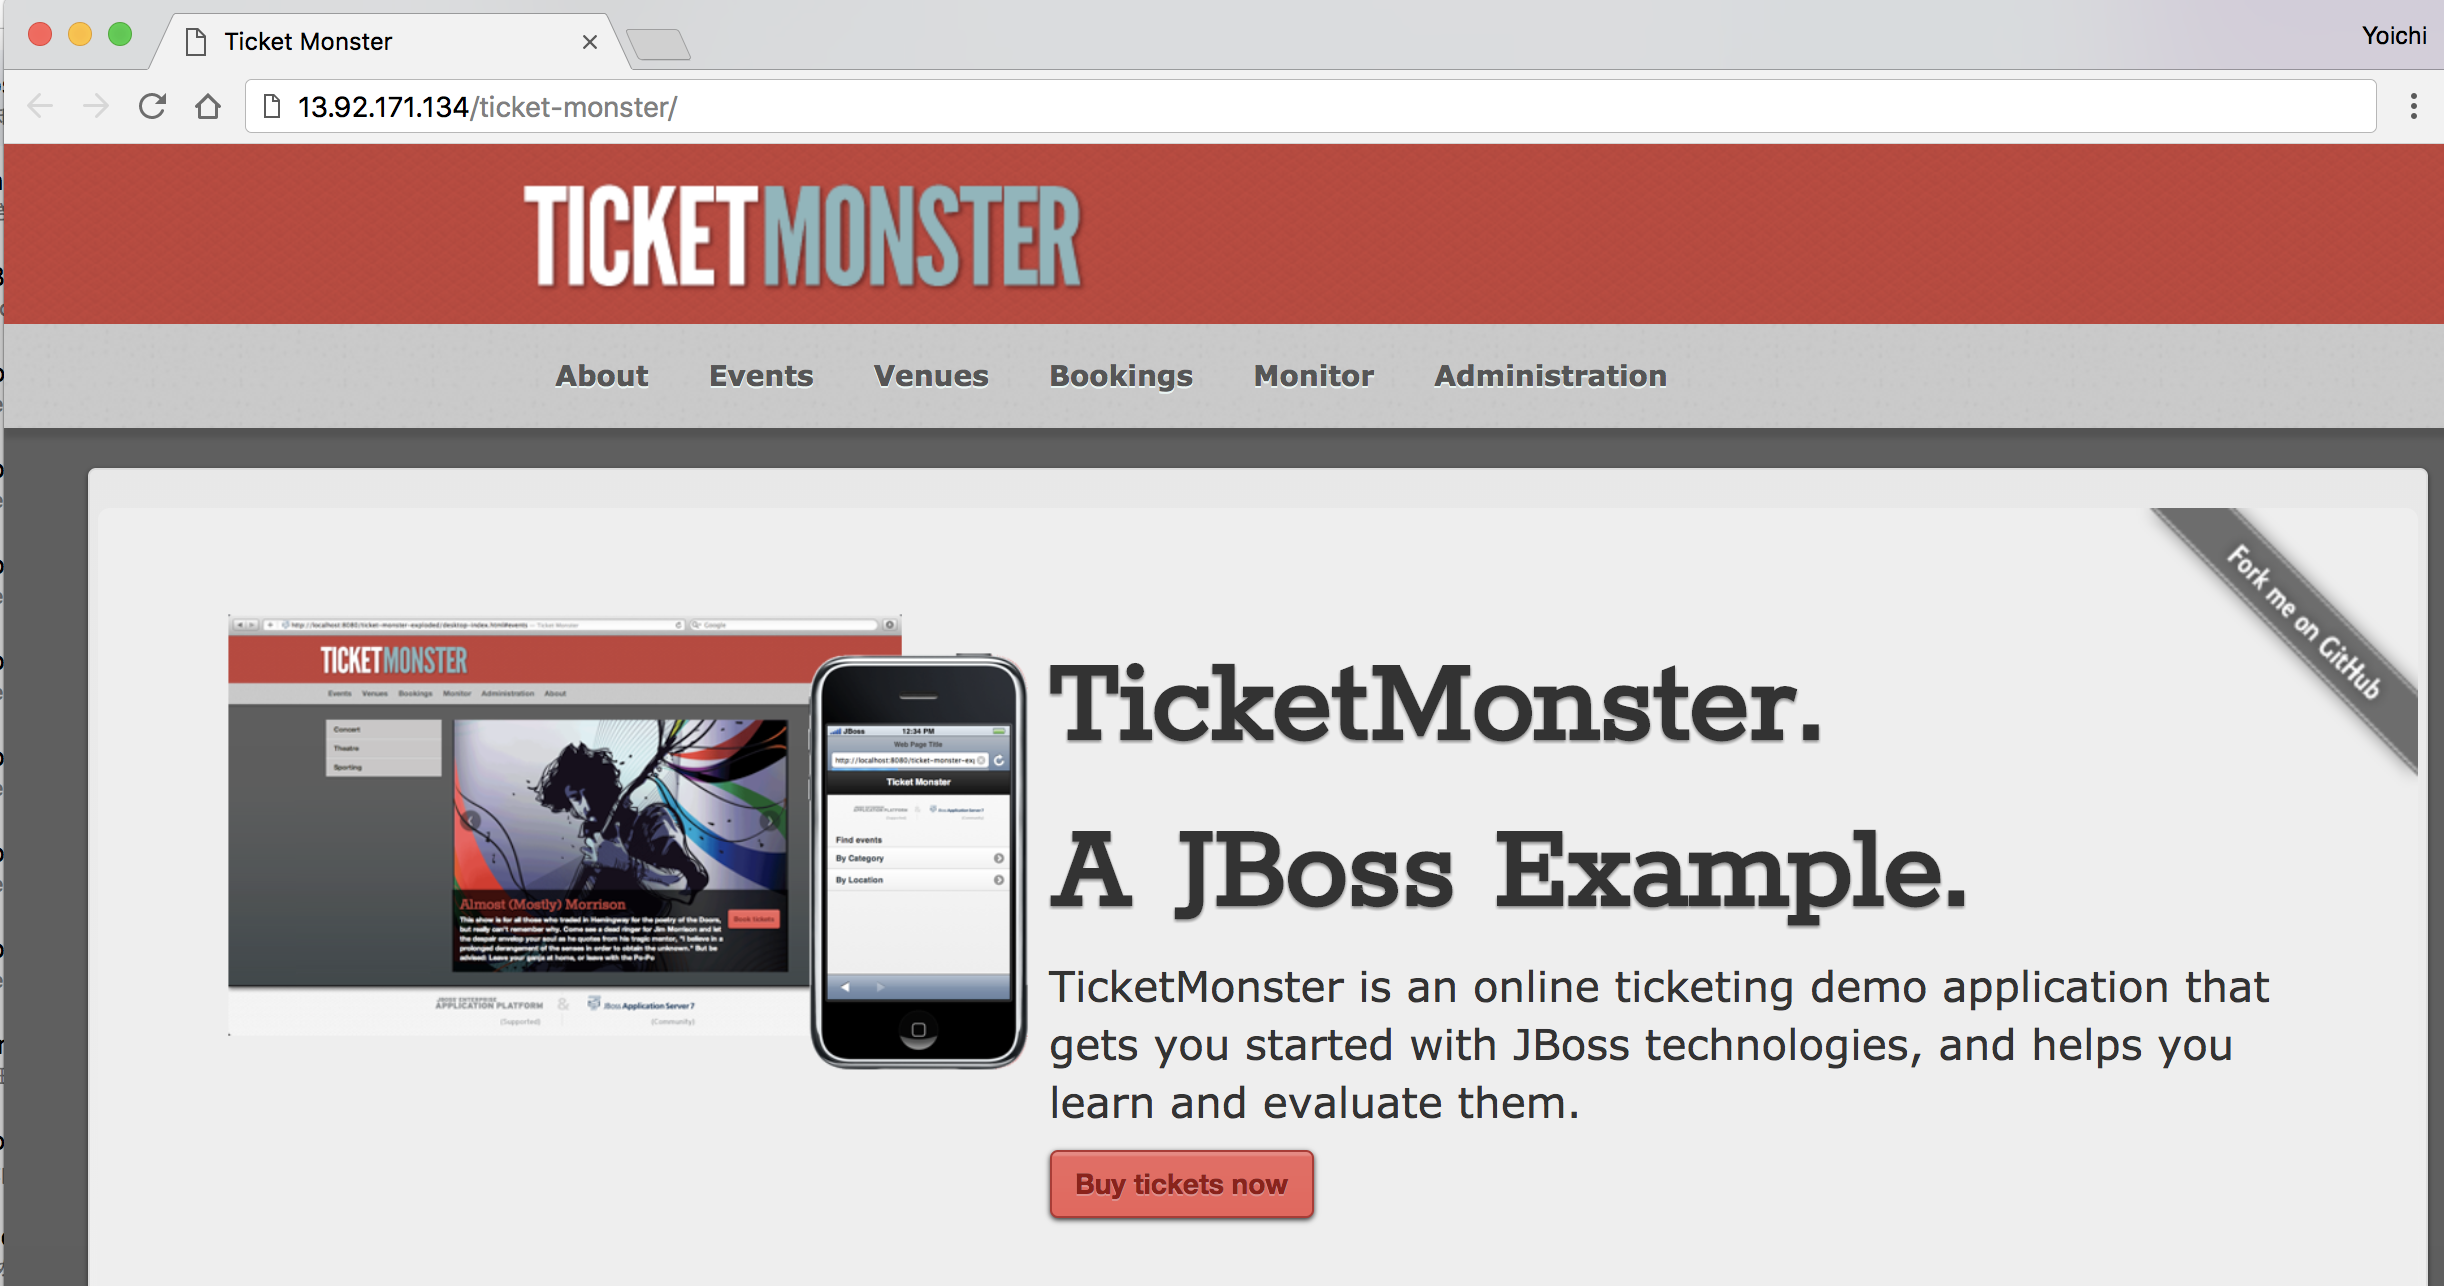
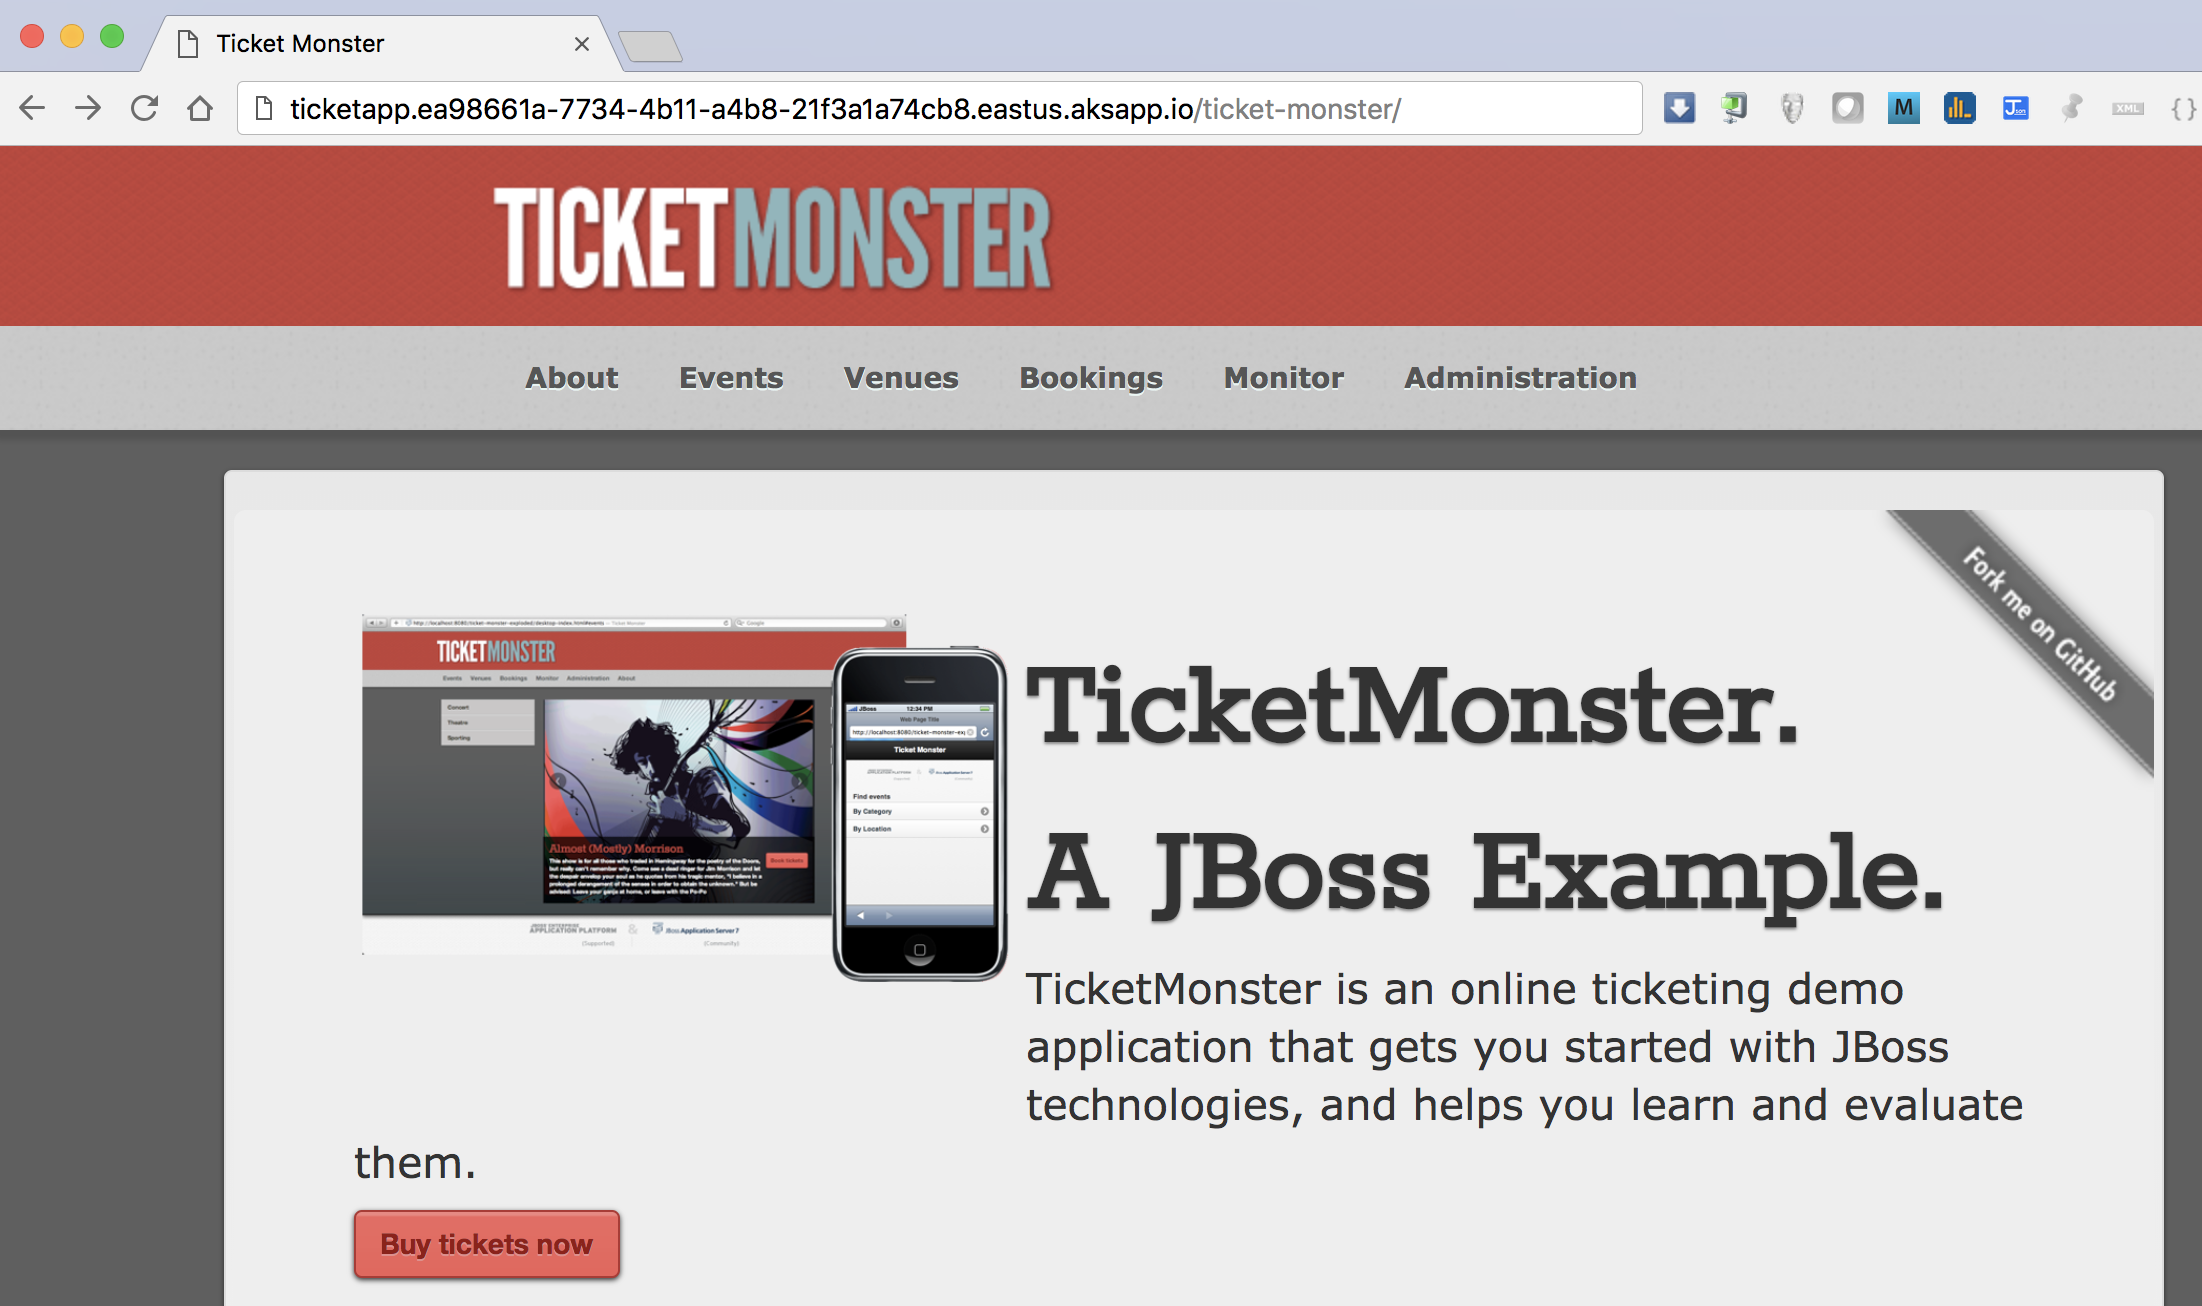
Document Update

diff --git a/docs/02-deploy-apps.md b/docs/02-deploy-apps.md
@@ -26,47 +26,76 @@ kubectl get po,rs,svc,deploy -l context=AKSDemo
 ```
 Sample Output:
 ```
-NAME                            READY     STATUS    RESTARTS   AGE
-po/modcluster-500718032-9xrsb   1/1       Running   0          1h
-po/postgres-1898721337-d21mz    1/1       Running   0          1h
-po/wildfly-1503803694-tmxd7     1/1       Running   0          1h
+NAME                             READY     STATUS    RESTARTS   AGE
+po/modcluster-79644db9c8-64jpf   1/1       Running   0          2h
+po/postgres-7c95f9bdf7-flnbp     1/1       Running   0          2h
+po/wildfly-7df855b4c8-pdthc      1/1       Running   0          1h
 
-NAME                      DESIRED   CURRENT   READY     AGE
-rs/modcluster-500718032   1         1         1         1h
-rs/postgres-1898721337    1         1         1         1h
-rs/wildfly-1503803694     1         1         1         1h
+NAME                       DESIRED   CURRENT   READY     AGE
+rs/modcluster-79644db9c8   1         1         1         2h
+rs/postgres-7c95f9bdf7     1         1         1         2h
+rs/wildfly-7df855b4c8      1         1         1         1h
 
-NAME             TYPE           CLUSTER-IP     EXTERNAL-IP     PORT(S)        AGE
-svc/modcluster   LoadBalancer   10.0.159.141   13.92.228.153   80:30000/TCP   1h
-svc/postgres     ClusterIP      10.0.13.178    <none>          5432/TCP       1h
+NAME             TYPE        CLUSTER-IP     EXTERNAL-IP   PORT(S)    AGE
+svc/modcluster   ClusterIP   10.0.228.173   <none>        80/TCP     2h
+svc/postgres     ClusterIP   10.0.235.89    <none>        5432/TCP   2h
 
 NAME                DESIRED   CURRENT   UP-TO-DATE   AVAILABLE   AGE
-deploy/modcluster   1         1         1            1           1h
-deploy/postgres     1         1         1            1           1h
+deploy/modcluster   1         1         1            1           2h
+deploy/postgres     1         1         1            1           2h
 deploy/wildfly      1         1         1            1           1h
 ```
 
-You can get only services status like this below (`-w` option is very useful to watch for changes after listing/getting the requested object):
-```
-kubectl get svc -l context=AKSDemo -w
-```
-Sample Output:
-```
-NAME         TYPE           CLUSTER-IP     EXTERNAL-IP     PORT(S)        AGE
-modcluster   LoadBalancer   10.0.159.141   13.92.228.153   80:30000/TCP   1h
-postgres     ClusterIP      10.0.13.178    <none>          5432/TCP       1h
-```
-Take note of the EXTERNAL-IP for modcluster service (13.92.228.153 is the one in this example).
 
-## 2. Access the applications
+## 2. Install Nginx Ingress Controller
 
-Check /mcm (mod_cluster manager):
+Browse to the auto-created AKS resource group named `MC_<ResourceGroup>_<ClusterName>_<region>` and select the DNS zone. Take note of the DNS zone name. This name is needed in next strep.
+
+![](../images/ingress-dns-name.png)
+
+Then, open the following file and replace `<CLUSTER_SPECIFIC_DNS_ZONE>` with the DNS zone that you obtained
+
 ```
-open http://<modcluster external ip>/mcm
+vi kubernetes/ingress-controller.yaml
+
+---
+spec:
+  rules:
+  - host: ticketapp.<CLUSTER_SPECIFIC_DNS_ZONE>
+    http:
+      paths:
+      - backend:
+          serviceName: modcluster
+          servicePort: 80
+        path: /ticket-monster
 ```
+
+Finally, install the nginx ingress controller by running the following command:
+```
+kubectl create -f kubernetes/ingress-controller.yaml --record
+```
+
+You can validate that the ingress controller was installed
+```
+kubectl get pods -n kube-system | grep nginx
+
+(Sample output)
+addon-http-application-routing-nginx-ingress-controller-6472srq   1/1       Running   0          3h
+```
+
+You can browse to the public IP assigned for the ingress controller.
+```
+kubectl get svc -n kube-system | grep nginx
+
+(Sample output)
+addon-http-application-routing-nginx-ingress          LoadBalancer   10.0.48.208    138.91.112.166   80:31935/TCP,443:30405/TCP   3h
+```
+The nginx controller will use a LoadBalancer type service where the backend is of type ClusterIP
+
+## 3. Access the applications
 
 Access Ticket-Monster application:
 ```
-open http://<modcluster external ip>/ticket-monster/
+open http://ticketapp.<CLUSTER_SPECIFIC_DNS_ZONE>/ticket-monster/
 ```
 ![](../images/ticket-monster-app.png)

diff --git a/README.md b/README.md
@@ -4,8 +4,11 @@ Ticket-Monster HA Cluster Demo using Azure Kubernetes Services (AKS) and Managed
 This project contains files that allows you to run [Ticket Monster](https://developers.redhat.com/ticket-monster/) on a [WildFly](http://www.wildfly.org/) server on [Azure Kubernates Services(AKS)](https://docs.microsoft.com/en-us/azure/aks/) + using [Azure Database for PostgreSQL](https://docs.microsoft.com/en-us/azure/postgresql/) and [OMS/LogAnalytic Service](https://docs.microsoft.com/en-us/azure/log-analytics/log-analytics-containers) in Azure. This project is a fork of the [devops-demo](https://github.com/rafabene/devops-demo) by [rafabene](https://github.com/rafabene)
 
 ## Demo Architecture and Components
+- Cluster1
+![](images/azure-k8s-cluster1.png)
 
-![](images/azure-k8s-cluster-overview.png)
+- Cluster2
+![](images/azure-k8s-cluster2.png)
 
 The pieces of this demo are:
 
